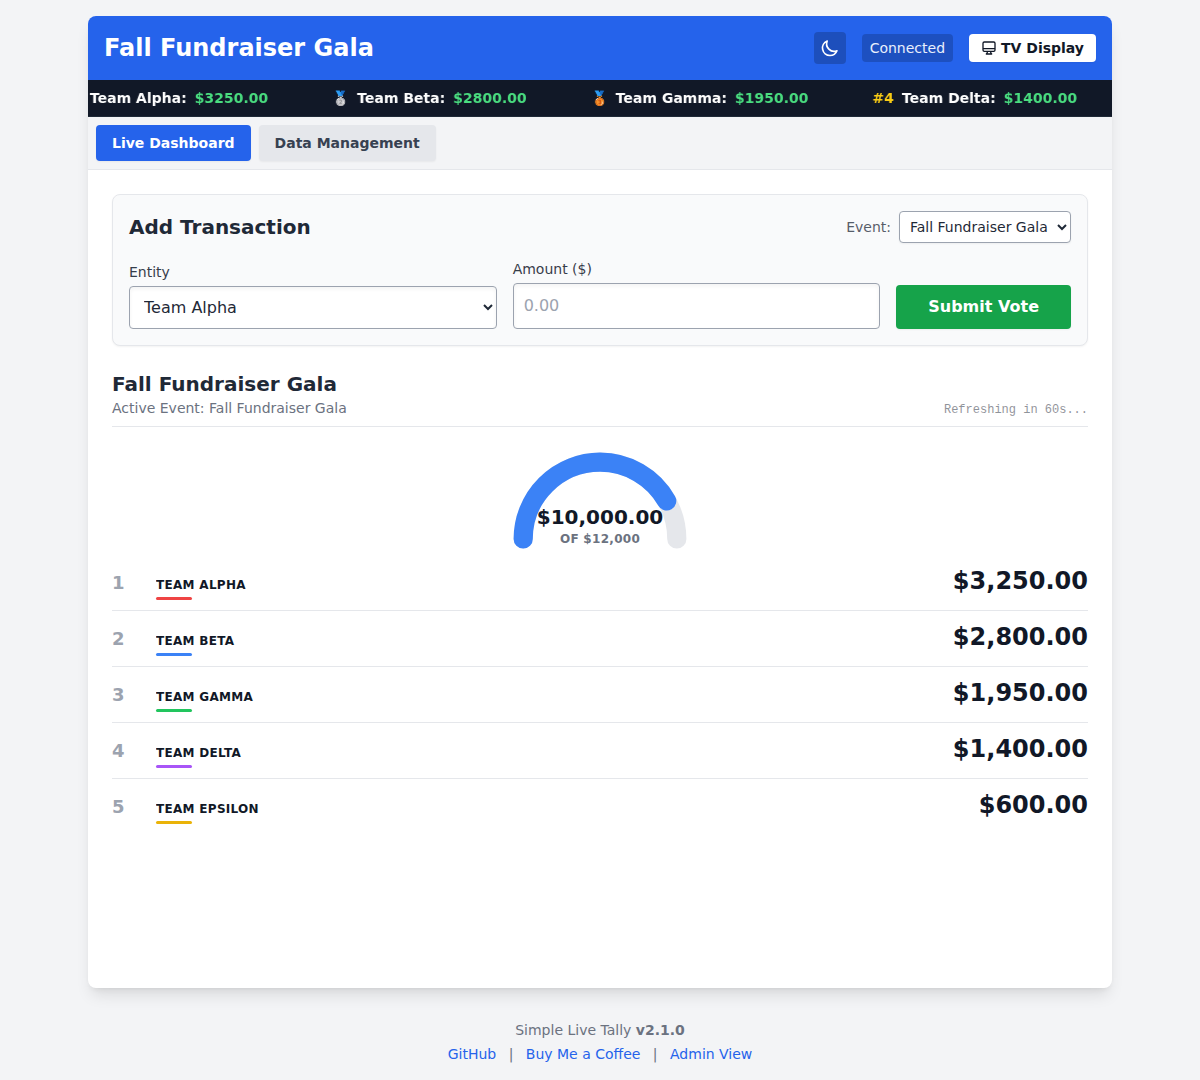
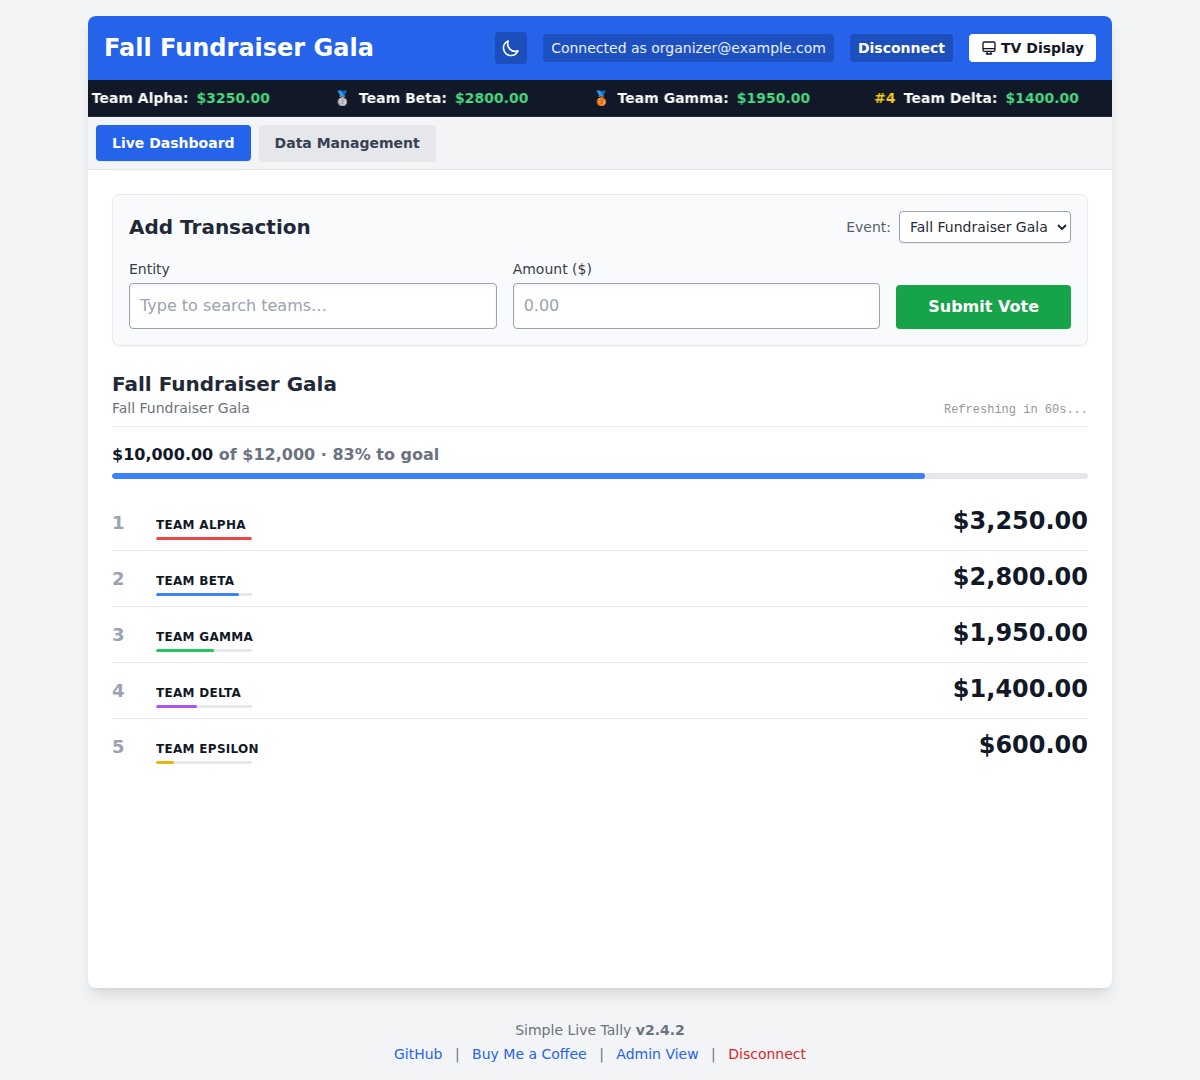
Refresh README screenshots for current UI (through v2.4.2)
The screenshots hadn't been updated since v2.1.0 (dashboard/TV) and
v2.0.0 (management), so they still showed the old arc-style goal
gauge, a <select> team picker instead of the type-to-search field, the
old per-team color-card management layout, and a stale footer version
with no account email or Disconnect link. Recaptured all three against
the current app with the same demo dataset (Fall Fundraiser Gala,
teams Alpha-Epsilon) for continuity. Also updated the "goal gauge"
wording in the Screenshots section to "goal bar" to match the linear
bar shipped in v2.3.0.

Claude-Session: https://claude.ai/code/session_01RFgUz92cawgPUNDoTSKcsx

diff --git a/README.md b/README.md
@@ -18,9 +18,9 @@ Just open that page and sign in with **your own** Dropbox account. Because of th
 
 ## Screenshots
 
-**Live Dashboard** — the leaderboard operators and guests watch update in real time, with an animated goal gauge and a large, tabular-numeral team ranking built to be read at a glance.
+**Live Dashboard** — the leaderboard operators and guests watch update in real time, with an animated goal bar and a large, tabular-numeral team ranking built to be read at a glance.
 
-![Live Dashboard showing a leaderboard of five teams with a fundraising goal gauge](docs/screenshots/dashboard.png)
+![Live Dashboard showing a leaderboard of five teams with a fundraising goal bar](docs/screenshots/dashboard.png)
 
 **TV / Projector Display Mode** — append `#tv` to the URL for a high-contrast, full-bleed layout built for 1080p screens.
 
